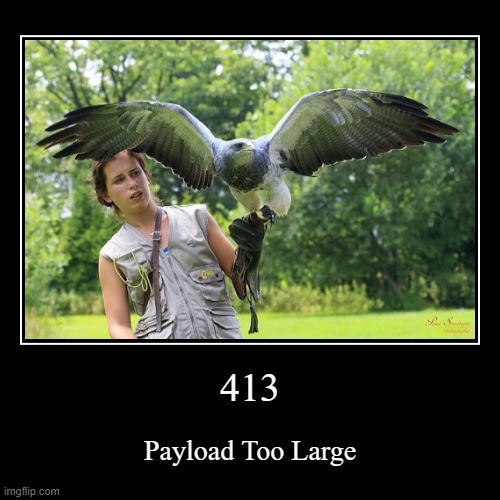
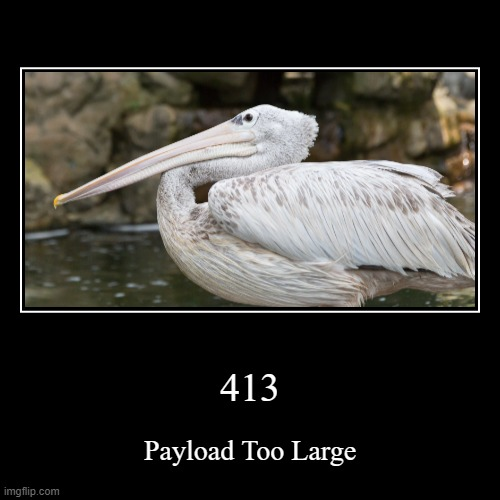
Route delete, image changes, new birb addition and typo fix

diff --git a/templates/index.html b/templates/index.html
@@ -16,8 +16,8 @@
 {% endfor %}
 </ul>
    <h3>P.S.</h3>
-Images used here are not my property and are taken from various sites around the internet.<br> Please note that the images are NOT used for monetary purposes in any way, shape, or form and copyright infringement is NOT intended.
-<br>If you own a particular image and want it to be taken down, please open an <a href="https://github.com/thisisjustinm/http-status-birbs/issues">issue</a> and I will take I down ASAP.
+Images used here are not my property and are taken from various sites around the internet(Most images used here are CC0).<br> Please note that the images are NOT used for monetary purposes in any way, shape, or form and copyright infringement is NOT intended.
+<br>If you own a particular image and want it to be taken down, please open an <a href="https://github.com/thisisjustinm/http-status-birbs/issues">issue</a> and I will take it down ASAP.
 <br><br>Copyleft (ɔ) 2021 Justin M.
 </body>
 </html>

diff --git a/app.py b/app.py
@@ -13,11 +13,6 @@ def index():
     return render_template('index.html', code_list=code_list, b_count=len(code_list))
 
 
-@app.route('/a')
-def a():
-    return 'Hi! Im on Heroku'
-
-
 @app.route('/<status>')
 def get_image(status):
     file_name = f'images/{status}.jpg'
